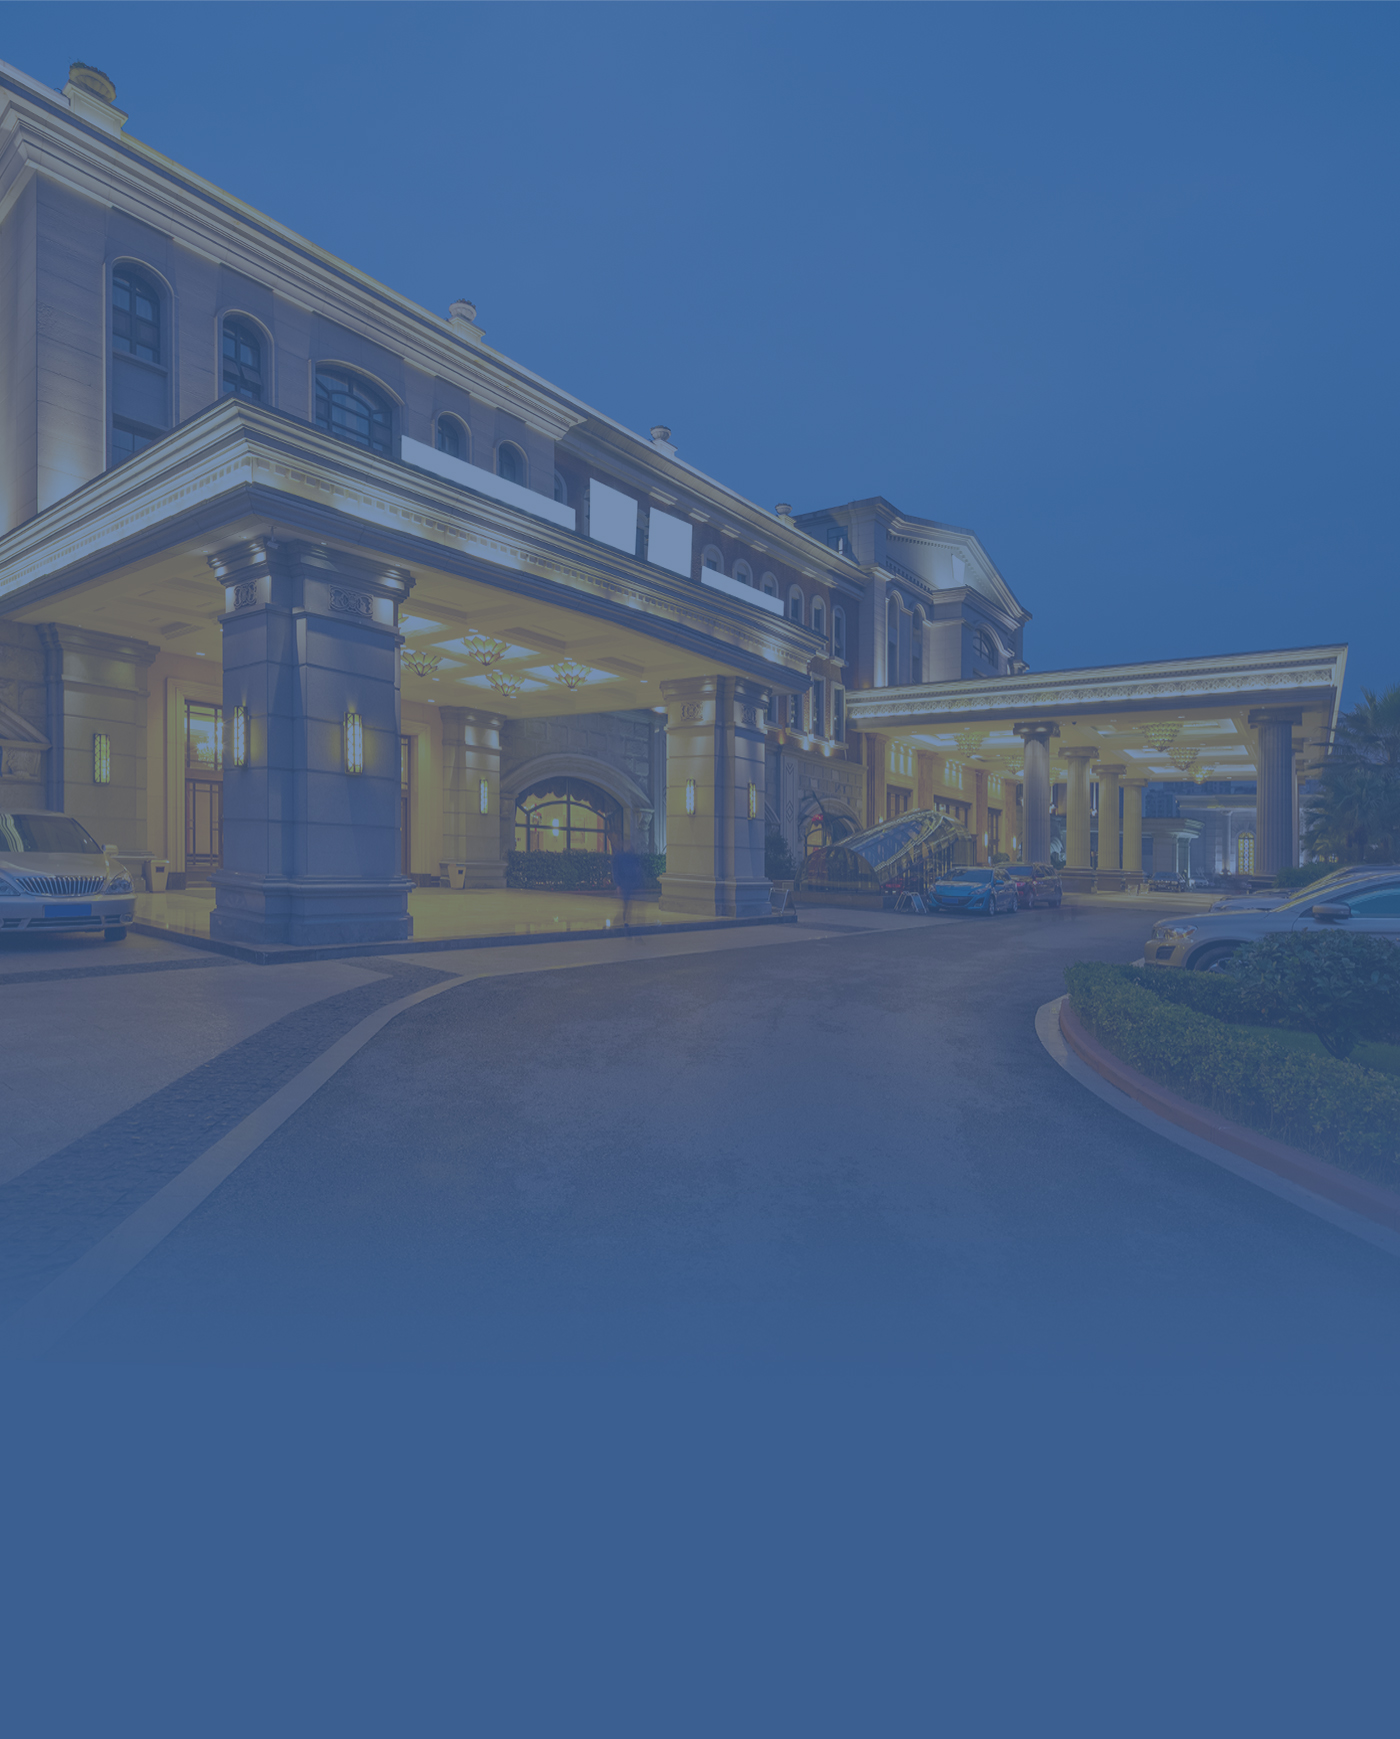
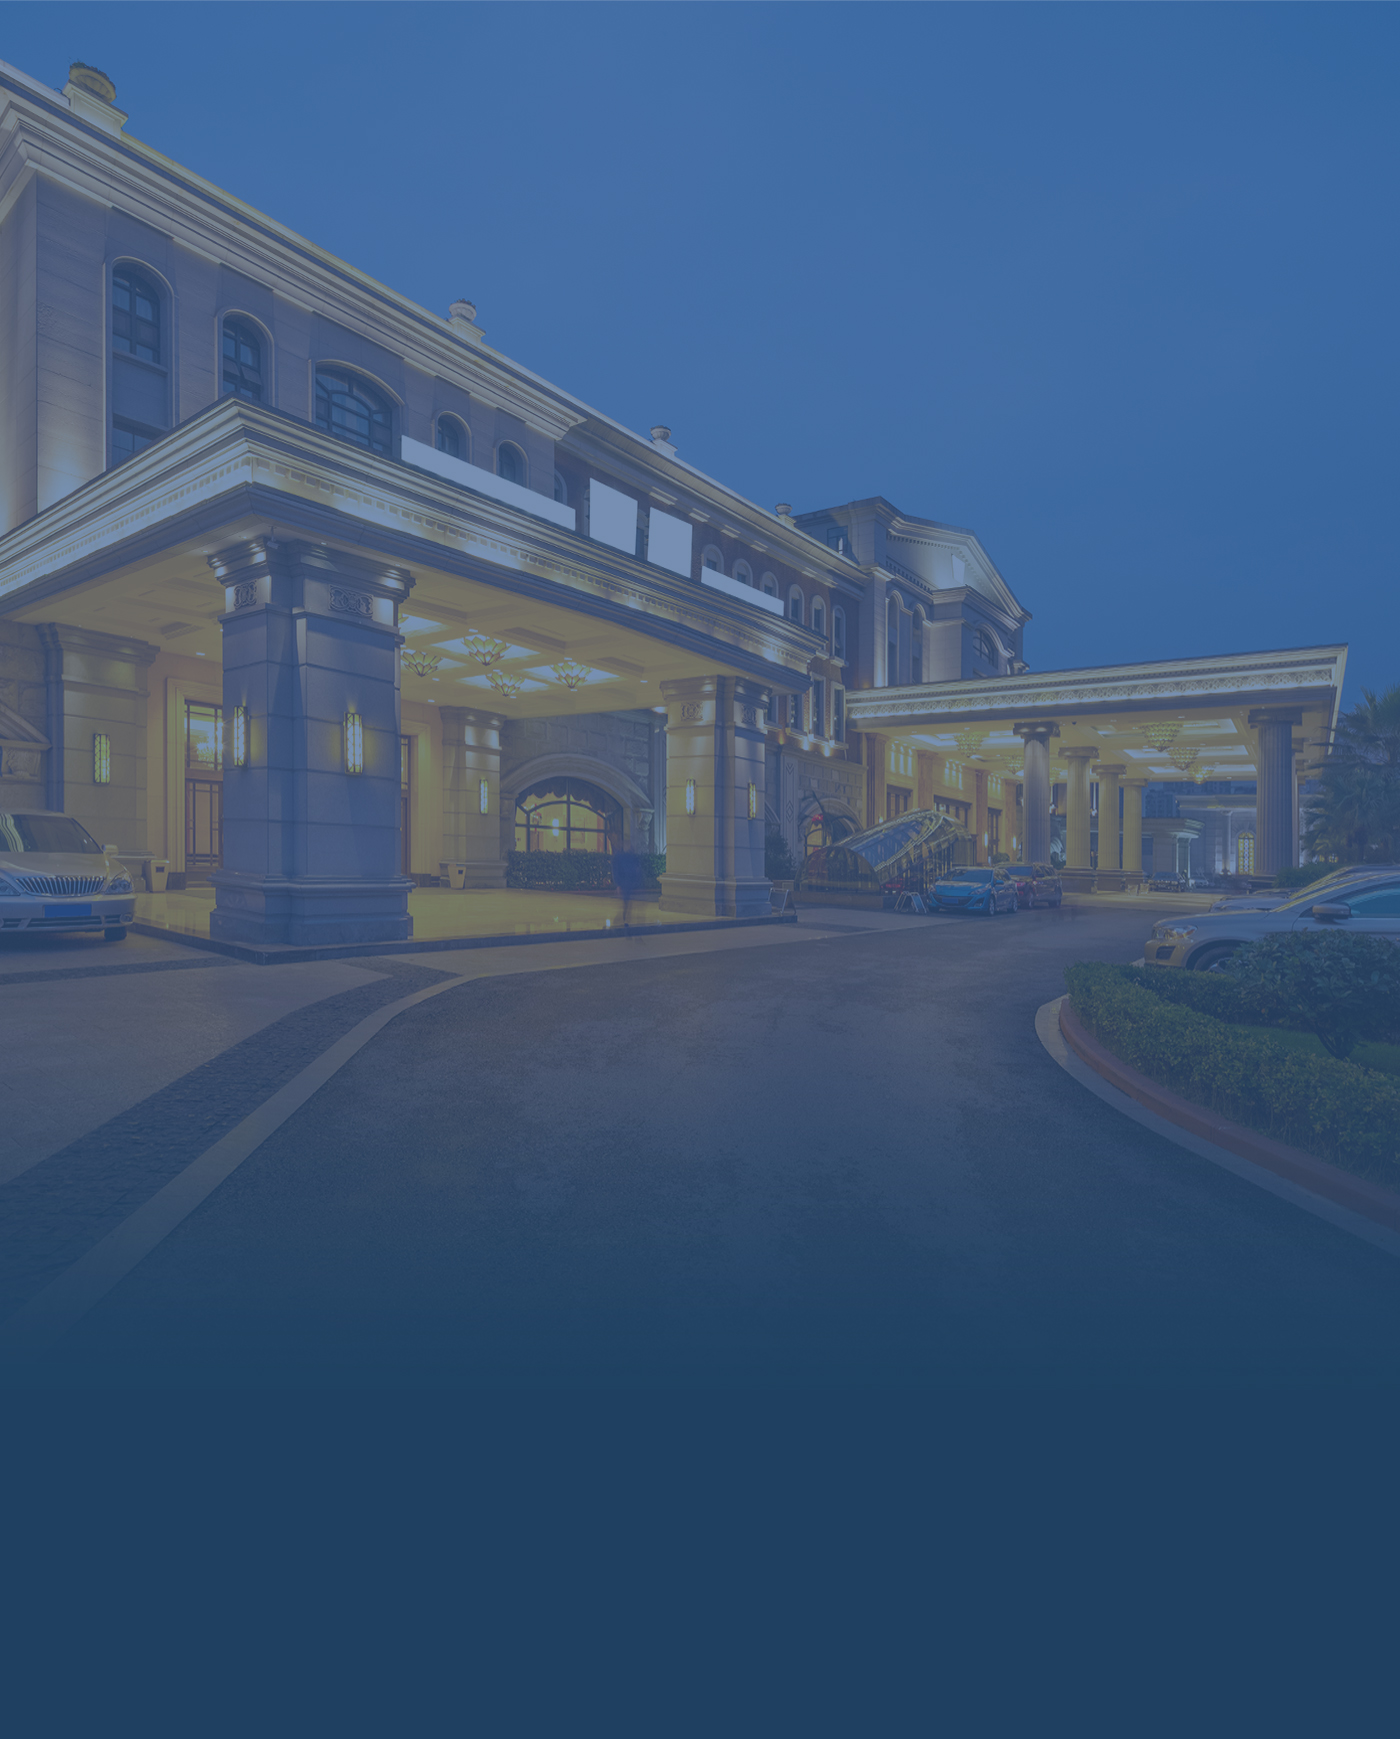
Вчерне закончил вторую секцию (сервис)

diff --git a/index2.html b/index2.html
@@ -190,6 +190,13 @@
                             </div>
                         </div>
                         <div class="row">
+                            <div class="col l12">
+                                <div class="centered-title-element">
+                                    Номера
+                                </div>
+                            </div>
+                        </div>
+                        <div class="row">
                             <div class="col l4">
                                 <div class="simple-card-element">
                                     <header>
@@ -221,10 +228,109 @@
                                 </div>
                             </div>
                             <div class="col l4">
-
+                                <div class="room-card-element">
+                                    <header>
+                                        <img src="./public/img/room1.png" />
+                                    </header>
+                                    <section class="content">
+                                        <div class="room-type">
+                                            <h4 class="name">Люкс</h4>
+                                            <span class="square">20-24 кв.м</span>
+                                        </div>
+                                        <div class="price-item">
+                                            от <span class="price">7 600</span>руб
+                                        </div>
+                                    </section>
+                                    <footer>
+                                        <div class="property-item">
+                                            <i class="propert-icon" style="background-image: url('./public/img/icons/one-bed.png');"></i>
+                                            <span class="property-description">1 двуспальная кровать</span>
+                                        </div>
+                                        <div class="property-item">
+                                            <i class="propert-icon" style="background-image: url('./public/img/icons/2people.png');"></i>
+                                            <span class="property-description">2 гостя</span>
+                                        </div>
+                                    </footer>
+                                </div>
+                                <div class="room-card-element">
+                                    <header>
+                                        <img src="./public/img/room2.png" />
+                                    </header>
+                                    <section class="content">
+                                        <div class="room-type">
+                                            <h4 class="name">Стандарт</h4>
+                                            <span class="square">30-36 кв.м</span>
+                                        </div>
+                                        <div class="price-item">
+                                            от <span class="price">5 000</span>руб
+                                        </div>
+                                    </section>
+                                    <footer>
+                                        <div class="property-item">
+                                            <i class="propert-icon" style="background-image: url('./public/img/icons/one-bed.png');"></i>
+                                            <span class="property-description">1 двуспальная кровать</span>
+                                        </div>
+                                        <div class="property-item">
+                                            <i class="propert-icon" style="background-image: url('./public/img/icons/2people.png');"></i>
+                                            <span class="property-description">2 гостя</span>
+                                        </div>
+                                    </footer>
+                                </div>
                             </div>
                             <div class="col l4">
-
+                                <div class="room-card-element">
+                                    <header>
+                                        <img src="./public/img/room1.png" />
+                                    </header>
+                                    <section class="content">
+                                        <div class="room-type">
+                                            <h4 class="name">Стандарт</h4>
+                                            <span class="square">20-24 кв.м</span>
+                                        </div>
+                                        <div class="price-item">
+                                            от <span class="price">6 800</span>руб
+                                        </div>
+                                    </section>
+                                    <footer>
+                                        <div class="property-item">
+                                            <i class="propert-icon" style="background-image: url('./public/img/icons/two-bed.png');"></i>
+                                            <span class="property-description">2 односпальных кровати</span>
+                                        </div>
+                                        <div class="property-item">
+                                            <i class="propert-icon" style="background-image: url('./public/img/icons/2people.png');"></i>
+                                            <span class="property-description">2 гостя</span>
+                                        </div>
+                                    </footer>
+                                </div>
+                                <div class="room-card-element">
+                                    <header>
+                                        <img src="./public/img/room1.png" />
+                                    </header>
+                                    <section class="content">
+                                        <div class="room-type">
+                                            <h4 class="name">Стандарт</h4>
+                                            <span class="square">20-24 кв.м</span>
+                                        </div>
+                                        <div class="price-item">
+                                            от <span class="price">7 600</span>руб
+                                        </div>
+                                    </section>
+                                    <footer>
+                                        <div class="property-item">
+                                            <i class="propert-icon" style="background-image: url('./public/img/icons/one-bed.png');"></i>
+                                            <span class="property-description">1 двуспальня кровать</span>
+                                        </div>
+                                        <div class="property-item">
+                                            <i class="propert-icon" style="background-image: url('./public/img/icons/2people.png');"></i>
+                                            <span class="property-description">2 гостя</span>
+                                        </div>
+                                    </footer>
+                                </div>
+                            </div>
+                        </div>
+                        <div class="row">
+                            <div class="col l12 center">
+                                <button class="detail-button-element">все номера номера</button>
                             </div>
                         </div>
                     </div>

diff --git a/less/include/elements/centered-title.less b/less/include/elements/centered-title.less
@@ -1,3 +1,9 @@
 .centered-title-element {
-
+  text-transform: uppercase;
+  text-align: center;
+  font-family: "Prata", sans-serif;
+  font-size: 28px;
+  &.black {
+    color: black;
+  }
 }

diff --git a/less/include/sections/section-service.less b/less/include/sections/section-service.less
@@ -8,7 +8,7 @@ section.service {
   }
 
   &:after {
-    background-color: #466289;
+    background-color: #3d5778;
   }
 
   .right-content-block-element:first-child {
